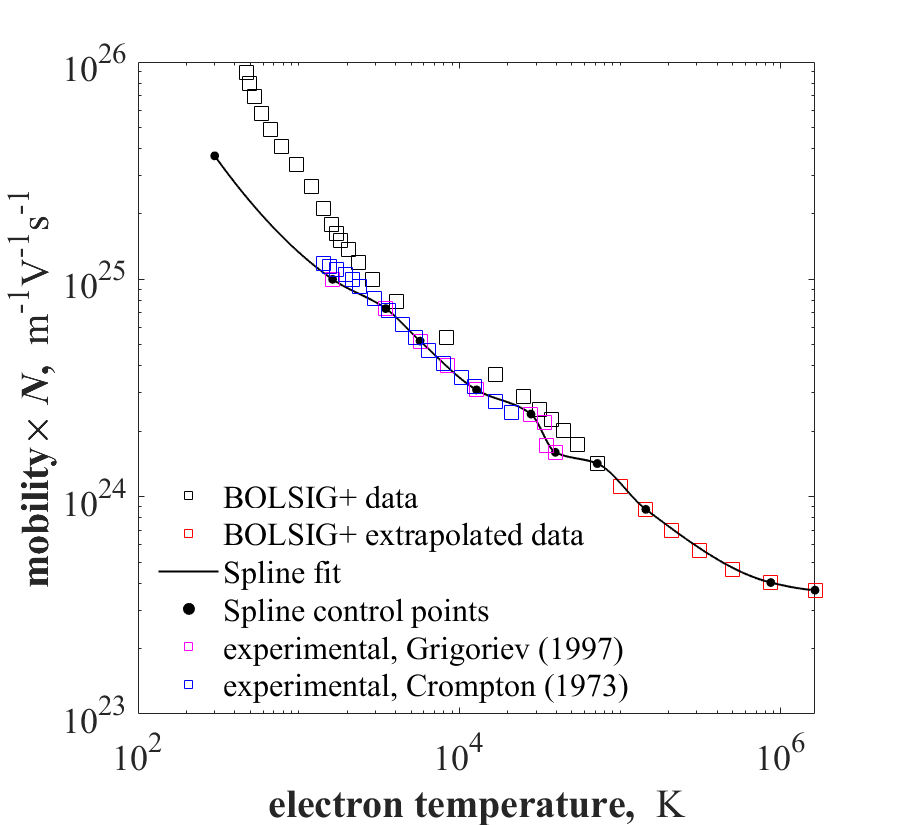
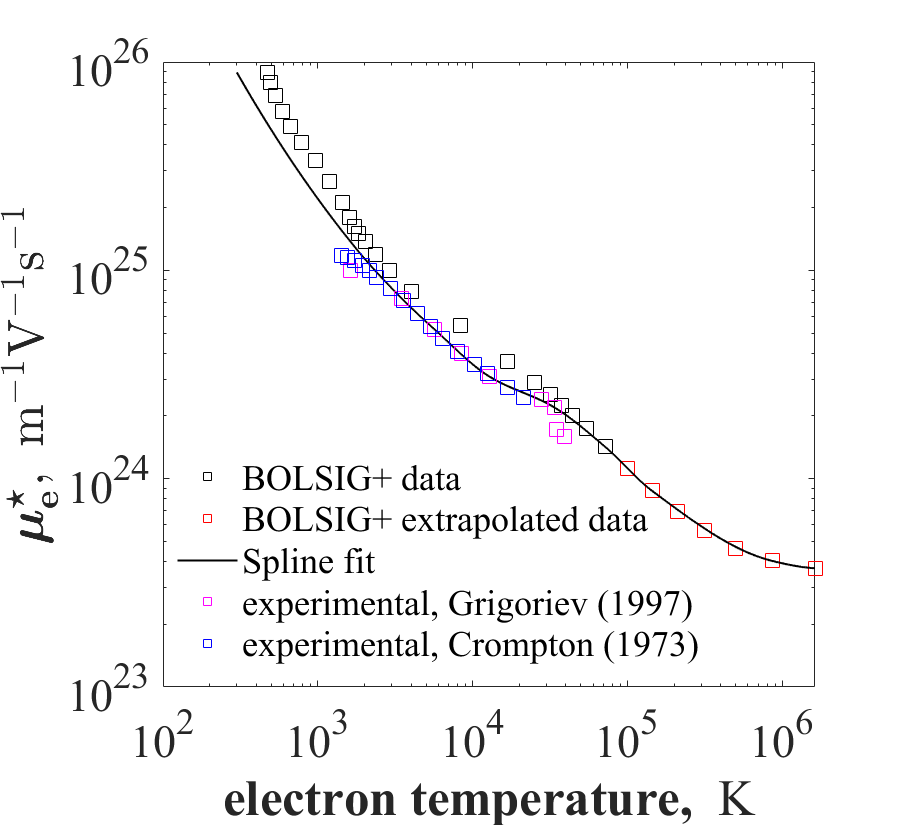
24jun10a

diff --git a/model/transport/doc/report.tex b/model/transport/doc/report.tex
@@ -456,8 +456,8 @@ where $(c_p)_k$ is the specific heat at constant pressure of the $k$th species a
   \multirow{2}{*}{1} &  \multirow{2}{*}{ $\rm e^- + N_2  $   } & ${\rm ln}~T_{\rm e}$  & \tiny 5.7038    6.0067    7.5266    9.0580    9.2866    9.6956   10.0010   10.7942   11.3595   13.1075   14.4873     \\
   &  & ${\rm ln}~\mu_{\rm e}N$     & \tiny  58.8996   58.6144   57.2080   56.0505   55.8498   55.4609   55.2620   55.2282   55.0865   54.4855   54.2678  \\
   \midrule  
-  \multirow{2}{*}{2} &  \multirow{2}{*}{ $\rm e^- + O_2  $   } & ${\rm ln}~T_{\rm e}$  & \tiny     5.7038    7.3930    8.1552    8.6458    9.4545   10.2346   10.5829   11.1835   11.8793   13.6691   14.3029 \\
-  &  & ${\rm ln}~\mu_{\rm e}N$     & \tiny  58.8730   57.5646   57.2544   56.9107   56.3934   56.1375   55.7320   55.6127   55.1276   54.3525   54.2716    \\
+  \multirow{2}{*}{2} &  \multirow{2}{*}{ $\rm e^- + O_2  $   } & ${\rm ln}~T_{\rm e}$  & \tiny      5.7038    7.4529    8.1552    8.6458    9.4545   10.4239   11.1835   11.8793   13.6691   14.3029\\
+  &  & ${\rm ln}~\mu_{\rm e}N$     & \tiny    59.7518   57.8270   57.2544   56.9107   56.3934   56.0505   55.6127   55.1276   54.3525   54.2716  \\
   \midrule 
   \multirow{2}{*}{3} &  \multirow{2}{*}{ $\rm e^- + NO  $   } & ${\rm ln}~T_{\rm e}$  & \tiny 5.7038    6.1119    6.2863    7.0606    7.5408    7.7537    7.9923    8.6608    9.5506   10.7689   12.7980   14.2900 \\
   &  & ${\rm ln}~\mu_{\rm e}N$     & \tiny  58.6293   58.5553   58.5354   58.0894   57.3686   56.9769   56.5835   56.3153   55.9881   55.4932   54.1576   54.0273 \\

diff --git a/model/share/transport_share.c b/model/share/transport_share.c
@@ -589,12 +589,11 @@ static double _mueN_O2(double Te){
   double Te_control[] = 
   { 
     5.70378247465620,
-    7.39303753148020,
+    7.45290696430674,
     8.15517758348606,
     8.64580049988764,
     9.45446056782523,
-    10.2346191249505,
-    10.5829258193665,
+    10.4238611248242,
     11.1835383764881,
     11.8792632932909,
     13.6691438195424,
@@ -603,13 +602,12 @@ static double _mueN_O2(double Te){
   /* log m^-1 V^-1 s^-1*/
   double mueN_control[] = 
   { 
-    58.8729601445013,
-    57.5646273248511,
+    59.7518015663339,
+    57.8269915893186,
     57.2544269409688,
     56.9107008574445,
     56.3934443433482,
-    56.1375109692110,
-    55.7320458611028,
+    56.0504995922214,
     55.6126991034703,
     55.1275961353042,
     54.3524788207324,
